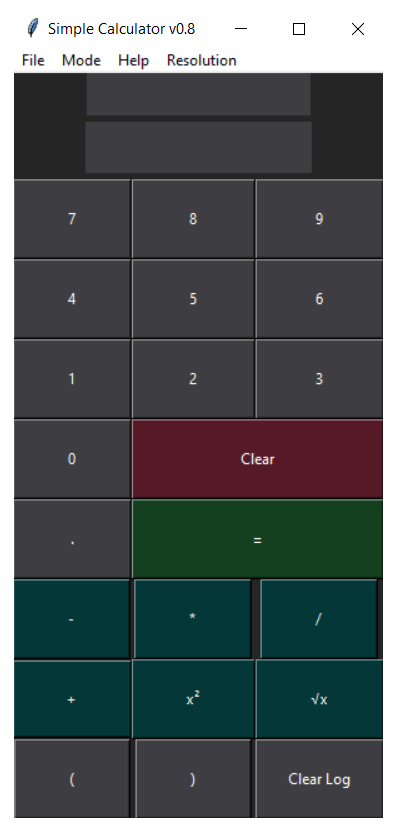
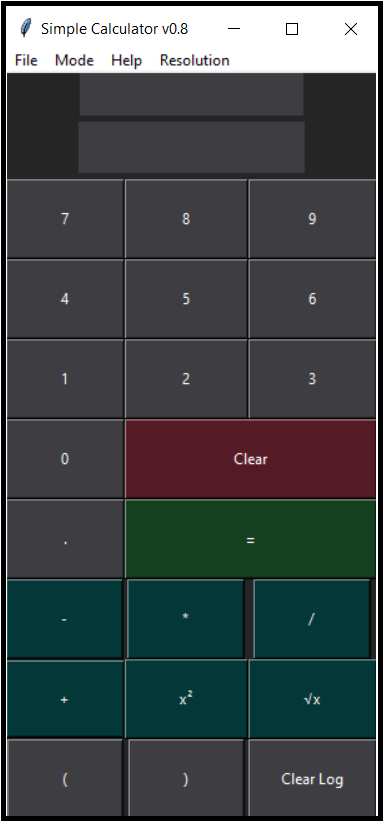
Add_Images

diff --git a/Simple_Calc.py b/Simple_Calc.py
@@ -224,19 +224,19 @@ def Calculator_Gui():
 
     button_0 =  Button(root, text="0", pady=20,bg="#3e3e42",fg='white', command=lambda: button_click(0))
 
-    button_Par_OPEN =  Button(root, text="(", padx=40, pady=20,bg="#3e3e42",fg='white', command=lambda: button_click("("))
+    button_Par_OPEN =  Button(root, text=" ( ", padx=40, pady=20,bg="#3e3e42",fg='white', command=lambda: button_click("("))
     button_Par_OPEN.grid(row=9,column=0)
 
-    button_Par_Cls =  Button(root, text=")", padx=40, pady=20,bg="#3e3e42",fg='white', command=lambda: button_click(")"))
+    button_Par_Cls =  Button(root, text=" ) ", padx=40, pady=20,bg="#3e3e42",fg='white', command=lambda: button_click(")"))
     button_Par_Cls.grid(row=9,column=1)
 
     button_equal = Button(root, text="=",bg="#154020",fg='white', padx=91, pady=20, command=button_equals)
     button_clear = Button(root, text="Clear",bg="#561a27",fg='white', padx=80, pady=20, command=button_del)
 
-    button_add = Button(root, text="+", bg="#043738",fg='white', padx=39, pady=19,  command=lambda: Add_Operator("+"))
-    button_subtract = Button(root, text="-",bg="#043738",fg='white',  padx=40, pady=20, command=lambda: Add_Operator("-"))
-    button_multiply = Button(root, text="*",bg="#043738",fg='white',  padx=40, pady=20, command=lambda: Add_Operator("*"))
-    button_divide= Button(root, text="/",bg="#043738",fg='white',  padx=40, pady=20, command=lambda: Add_Operator("/"))
+    button_add = Button(root, text=" + ", bg="#043738",fg='white', padx=39, pady=19,  command=lambda: Add_Operator("+"))
+    button_subtract = Button(root, text=" - ",bg="#043738",fg='white',  padx=40, pady=20, command=lambda: Add_Operator("-"))
+    button_multiply = Button(root, text=" * ",bg="#043738",fg='white',  padx=40, pady=20, command=lambda: Add_Operator("*"))
+    button_divide= Button(root, text=" /  ",bg="#043738",fg='white',  padx=40, pady=20, command=lambda: Add_Operator("/"))
 
     button_sqrt= Button(root, text="√x",bg="#043738",fg='white',  padx=40, pady=20, command=lambda: Add_Operator("mt.sqrt("))  
 

diff --git a/README.md b/README.md
@@ -2,3 +2,6 @@ A Simple calculator written in Python.
 
 
 <img title="a title" alt="Alt" src="/Image/Simple_Calculator.png" width="180" height="400">
+<img title="a title" alt="Alt" src="/Image/Simple_Calculator_Scientific.png" width="180" height="400">
+
+
